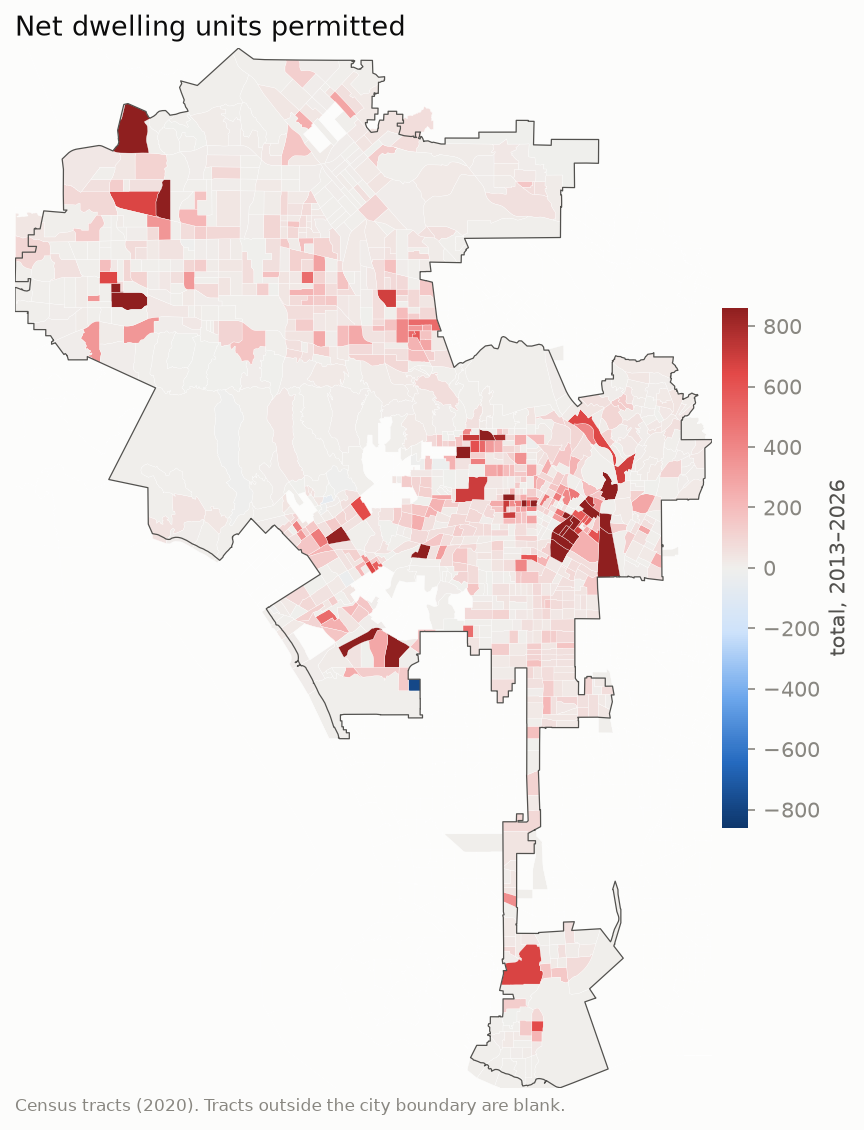
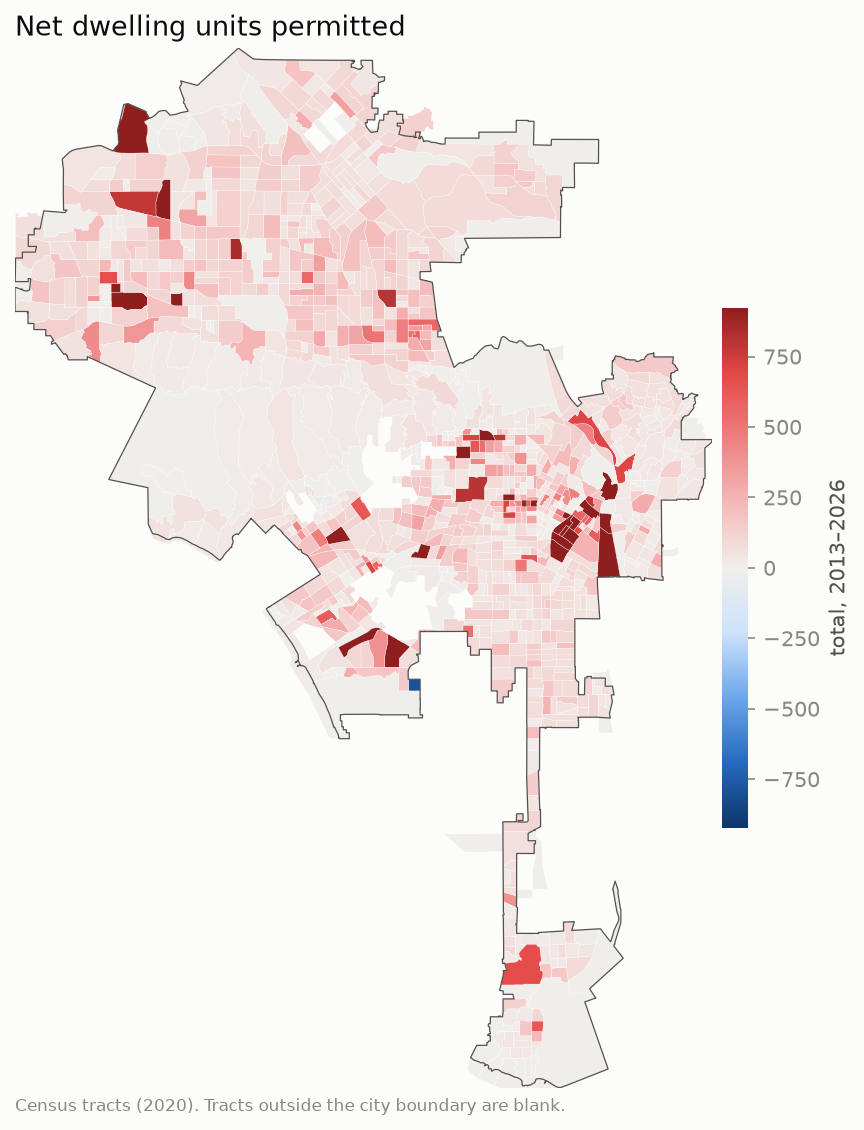
Count ADUs and junior ADUs as dwelling units
LADBS publishes DU_CHANGED, ADU_CHANGED and JUNIOR_ADU as separate unit counts; the
mapper had read the ADU fields as flags, so net units missed ~52k ADUs since 2013 and a
house-to-two-ADU conversion showed as -1. Three integer columns now feed du_net,
du_permitted and n_adu, and the detail page shows the per-permit breakdown.

Claude-Session: https://claude.ai/code/session_01RbRuwY2ffbaMn1FTBFpkTo

diff --git a/site/detail_template.html b/site/detail_template.html
@@ -125,7 +125,7 @@ function syncUrl(){ const u = new URL(location.href); for (const k of ["geo","id
 // ---- data: one spatially sorted parquet + a per-geography index of row groups per area.
 const dec = new TextDecoder();
 const asStr = v => v == null ? null : (v instanceof Uint8Array ? dec.decode(v) : String(v));
-const COLUMNS = ["permit_id","permit_class","permit_type","permit_subtype","status","issue_date","final_date","year","completed_year","address","valuation","du","work_desc","lat","lon","source_url","is_new_building","is_addition","is_demolition","is_adu","is_solar","is_ev","is_completed"];
+const COLUMNS = ["permit_id","permit_class","permit_type","permit_subtype","status","issue_date","final_date","year","completed_year","address","valuation","du","du_main","du_adu","du_jadu","work_desc","lat","lon","source_url","is_new_building","is_addition","is_demolition","is_adu","is_solar","is_ev","is_completed"];
 // Byte span of one row group (all its column chunks are contiguous in the file).
 function groupSpan(md, k){ let start = Infinity, end = 0; for (const c of md.row_groups[k].columns) { const m = c.meta_data; const off = Number(m.dictionary_page_offset ?? m.data_page_offset); start = Math.min(start, off); end = Math.max(end, off + Number(m.total_compressed_size)); } return [start, end]; }
 async function loadRows(){
@@ -175,12 +175,14 @@ function apply(){
   shown = 0; document.querySelector("#tbl tbody").innerHTML = ""; document.getElementById("tbl").hidden = !VIEW.length; more();
   chart(m, yk); types(); points(); syncUrl();
 }
+const sgn = n => (n > 0 ? "+" : "") + n;
+function unitsCell(r){ if (r.du == null || r.du === 0 && !r.du_main && !r.du_adu && !r.du_jadu) return "—"; const parts = []; if (r.du_main) parts.push(`${sgn(Number(r.du_main))} unit${Math.abs(r.du_main)===1?"":"s"}`); if (r.du_adu) parts.push(`${sgn(Number(r.du_adu))} ADU`); if (r.du_jadu) parts.push(`${sgn(Number(r.du_jadu))} JADU`); return `<b>${sgn(r.du)}</b>${parts.length > 1 || (parts.length === 1 && !r.du_main) ? `<br><span style="color:var(--ink-3);font-size:11px">${parts.join(" · ")}</span>` : ""}`; }
 function more(){ const tb = document.querySelector("#tbl tbody"); const end = Math.min(shown + 200, VIEW.length);
   const frag = document.createDocumentFragment();
   for (const r of VIEW.slice(shown, end)) { const tr = document.createElement("tr");
     const link = r.source_url ? r.source_url : (r.permit_class === "right_of_way" ? null : `https://www.ladbsservices2.lacity.org/OnlineServices/PermitReport/PcisPermitDetail?id1=${encodeURIComponent(r.permit_id)}`);
     const done = r.is_completed ? ` <span class="pill done">${r.is_demolition ? "demolished" : "CofO"}</span>` : "";
-    tr.innerHTML = `<td>${r.issue_date||"—"}</td><td>${esc(r.permit_type)}${r.permit_subtype?`<br><span class="pill">${esc(r.permit_subtype)}</span>`:""}</td><td>${esc(r.address)}</td><td class="desc">${esc(r.work_desc)}</td><td class="num">${r.valuation!=null?fmt$(r.valuation):"—"}</td><td class="num">${r.du!=null?(r.du>0?"+":"")+r.du:"—"}</td><td>${esc(r.status)}${done}</td><td class="id">${link?`<a href="${esc(link)}" target="_blank" rel="noopener">${esc(r.permit_id)}</a>`:esc(r.permit_id)}</td>`;
+    tr.innerHTML = `<td>${r.issue_date||"—"}</td><td>${esc(r.permit_type)}${r.permit_subtype?`<br><span class="pill">${esc(r.permit_subtype)}</span>`:""}</td><td>${esc(r.address)}</td><td class="desc">${esc(r.work_desc)}</td><td class="num">${r.valuation!=null?fmt$(r.valuation):"—"}</td><td class="num">${unitsCell(r)}</td><td>${esc(r.status)}${done}</td><td class="id">${link?`<a href="${esc(link)}" target="_blank" rel="noopener">${esc(r.permit_id)}</a>`:esc(r.permit_id)}</td>`;
     frag.appendChild(tr); }
   tb.appendChild(frag); shown = end; document.getElementById("more").hidden = shown >= VIEW.length; document.getElementById("more").textContent = `Show more (${(VIEW.length-shown).toLocaleString()} left)`; }
 document.getElementById("more").onclick = more;
@@ -220,7 +222,7 @@ async function init(){
     ALL = await loadRows();
     apply();
   } catch (e) { document.getElementById("status").textContent = `Could not load permits: ${e.message}`; console.error(e); }
-  document.getElementById("notes").innerHTML = `<p style="margin:0 0 6px"><strong>Reading this list.</strong> Each row is one issued permit located in this area. "Units" is the permit's declared change in dwelling units; the CofO pill marks permits that reached a certificate of occupancy, "demolished" marks finaled demolitions — only those count toward net units completed.</p><p style="margin:0">Permit numbers link to the LADBS permit report or the BOE permit page. Data as of ${META.generated.slice(0,10)}.</p>`;
+  document.getElementById("notes").innerHTML = `<p style="margin:0 0 6px"><strong>Reading this list.</strong> Each row is one issued permit located in this area. "Units" is the permit's declared net change in dwelling units, counting regular units, ADUs and junior ADUs (LADBS records them separately, so converting a house into two ADUs shows as −1 unit · +2 ADU = +1); the CofO pill marks permits that reached a certificate of occupancy, "demolished" marks finaled demolitions — only those count toward net units completed.</p><p style="margin:0">Permit numbers link to the LADBS permit report or the BOE permit page. Data as of ${META.generated.slice(0,10)}.</p>`;
 }
 for (const id of ["cls","metric"]) document.getElementById(id).onchange = e => { S[id] = e.target.value; apply(); };
 for (const id of ["y0","y1"]) document.getElementById(id).onchange = e => { S[id] = +e.target.value || S[id]; if (S.y0 > S.y1) [S.y0, S.y1] = [S.y1, S.y0]; document.getElementById("y0").value=S.y0; document.getElementById("y1").value=S.y1; apply(); };

diff --git a/src/plancheck/analysis/intensity.py b/src/plancheck/analysis/intensity.py
@@ -58,12 +58,14 @@ def metrics_sql(geo_col: str) -> str:
                AS n_additions,
            sum(CASE WHEN permit_type IN ({_list(cfg["demolition_types"])}) THEN 1 ELSE 0 END)::BIGINT
                AS n_demolitions,
-           sum(CASE WHEN adu_changed THEN 1 ELSE 0 END)::BIGINT AS n_adu,
+           sum(CASE WHEN coalesce(adu_units_change, 0) + coalesce(jadu_units_change, 0) > 0
+                    THEN 1 ELSE 0 END)::BIGINT AS n_adu,
            sum(CASE WHEN solar THEN 1 ELSE 0 END)::BIGINT AS n_solar,
            sum(CASE WHEN ev THEN 1 ELSE 0 END)::BIGINT AS n_ev,
            sum(valuation)::DOUBLE AS valuation_sum,
            median(valuation)::DOUBLE AS valuation_median,
-           sum(dwelling_units_change)::BIGINT AS du_permitted,
+           sum(coalesce(dwelling_units_change, 0) + coalesce(adu_units_change, 0)
+               + coalesce(jadu_units_change, 0))::BIGINT AS du_permitted,
            sum(sqft)::DOUBLE AS sqft_sum,
            sum(CASE WHEN lat IS NULL THEN 1 ELSE 0 END)::BIGINT AS n_unlocated
     FROM issued
@@ -84,7 +86,8 @@ def completions_sql() -> str:
         ) AS rn
         FROM permits p
         WHERE record_kind = 'issued' AND permit_class = 'building'
-          AND dwelling_units_change IS NOT NULL AND dwelling_units_change <> 0
+          AND coalesce(dwelling_units_change, 0) + coalesce(adu_units_change, 0)
+              + coalesce(jadu_units_change, 0) <> 0
     ),
     done AS (
         SELECT *,
@@ -103,7 +106,8 @@ def completions_sql() -> str:
 def du_net_sql(geo_col: str) -> str:
     return f"""
     SELECT ahj, {geo_col} AS geo_id, year, permit_class,
-           sum(dwelling_units_change)::BIGINT AS du_net,
+           sum(coalesce(dwelling_units_change, 0) + coalesce(adu_units_change, 0)
+               + coalesce(jadu_units_change, 0))::BIGINT AS du_net,
            count(*)::BIGINT AS n_du_completed
     FROM completions WHERE {geo_col} IS NOT NULL
     GROUP BY 1, 2, 3, 4
@@ -128,11 +132,13 @@ def compute(con: duckdb.DuckDBPyConnection | None = None) -> dict[str, pl.DataFr
     out["series_class"] = con.execute(
         "SELECT ahj, year, permit_class, count(*)::BIGINT AS n_permits, "
         "sum(valuation)::DOUBLE AS valuation_sum, "
-        "sum(dwelling_units_change)::BIGINT AS du_permitted FROM issued GROUP BY 1, 2, 3 "
+        "sum(coalesce(dwelling_units_change, 0) + coalesce(adu_units_change, 0) "
+        "+ coalesce(jadu_units_change, 0))::BIGINT AS du_permitted FROM issued GROUP BY 1, 2, 3 "
         "ORDER BY 1, 2, 3"
     ).pl()
     out["series_du_net"] = con.execute(
-        "SELECT ahj, year, sum(dwelling_units_change)::BIGINT AS du_net, count(*)::BIGINT AS n "
+        "SELECT ahj, year, sum(coalesce(dwelling_units_change, 0) + coalesce(adu_units_change, 0) "
+        "+ coalesce(jadu_units_change, 0))::BIGINT AS du_net, count(*)::BIGINT AS n "
         "FROM completions GROUP BY 1, 2 ORDER BY 1, 2"
     ).pl()
     out["series_type"] = con.execute(

diff --git a/src/plancheck/analysis/detail.py b/src/plancheck/analysis/detail.py
@@ -37,13 +37,16 @@ def detail_sql() -> str:
            i.permit_id, i.permit_class, i.permit_type, i.permit_subtype, i.status,
            i.issue_date, i.final_date, i.year, c.year AS completed_year,
            i.address_raw AS address, i.valuation,
-           i.dwelling_units_change AS du,
+           (coalesce(i.dwelling_units_change, 0) + coalesce(i.adu_units_change, 0)
+            + coalesce(i.jadu_units_change, 0)) AS du,
+           i.dwelling_units_change AS du_main, i.adu_units_change AS du_adu,
+           i.jadu_units_change AS du_jadu,
            left(i.work_desc, {WORK_DESC_MAX}) AS work_desc,
            round(i.lat, 5) AS lat, round(i.lon, 5) AS lon, i.source_url,
            (i.permit_type IN ({new})) AS is_new_building,
            (i.permit_type IN ({add})) AS is_addition,
            (i.permit_type IN ({demo})) AS is_demolition,
-           coalesce(i.adu_changed, false) AS is_adu,
+           (coalesce(i.adu_units_change, 0) + coalesce(i.jadu_units_change, 0) > 0) AS is_adu,
            coalesce(i.solar, false) AS is_solar,
            coalesce(i.ev, false) AS is_ev,
            (c.permit_id IS NOT NULL) AS is_completed

diff --git a/tests/test_mappers.py b/tests/test_mappers.py
@@ -26,7 +26,8 @@ def test_ladbs_building_mapper():
     r = df.row(1, named=True)
     assert r["permit_id"] == "22016-10000-31693"
     assert r["valuation"] == 8500.0
-    assert r["adu_changed"] is True and r["hillside"] is True and r["solar"] is True
+    assert r["adu_units_change"] == 2 and r["dwelling_units_change"] == -1
+    assert r["jadu_units_change"] == 0 and r["hillside"] is True and r["solar"] is True
     assert str(r["issue_date"]) == "2023-03-17" and str(r["final_date"]) == "2024-08-15"
     assert r["tract_src"] == "191500" and r["council_district_src"] == "13"
     assert r["lat_src"] == 34.08693 and r["latlon_type_src"] == "ADDRESS"

diff --git a/src/plancheck/ahj/la_city/ladbs.py b/src/plancheck/ahj/la_city/ladbs.py
@@ -123,8 +123,8 @@ def map_ladbs_building(lf: pl.LazyFrame, spec: SourceSpec) -> pl.LazyFrame:
     extras = [
         to_money("valuation").alias("valuation"),
         to_int("du_changed").alias("dwelling_units_change"),
-        to_bool("adu_changed").alias("adu_changed"),
-        to_bool("junior_adu").alias("junior_adu"),
+        to_int("adu_changed").alias("adu_units_change"),
+        to_int("junior_adu").alias("jadu_units_change"),
         to_float("square_footage").alias("sqft"),
         to_float("height").alias("height"),
         clean_text("construction").alias("construction"),

diff --git a/src/plancheck/ingest/schema.py b/src/plancheck/ingest/schema.py
@@ -38,9 +38,9 @@ PERMITS_SCHEMA: dict[str, pl.DataType] = {
     "zone_src": pl.Utf8,
     "hillside": pl.Boolean,
     "valuation": pl.Float64,
-    "dwelling_units_change": pl.Int32,
-    "adu_changed": pl.Boolean,
-    "junior_adu": pl.Boolean,
+    "dwelling_units_change": pl.Int32,  # regular dwelling units (LADBS DU_CHANGED)
+    "adu_units_change": pl.Int32,  # accessory dwelling units (ADU_CHANGED, a count)
+    "jadu_units_change": pl.Int32,  # junior ADUs (JUNIOR_ADU, a count)
     "solar": pl.Boolean,
     "ev": pl.Boolean,
     "sqft": pl.Float64,
